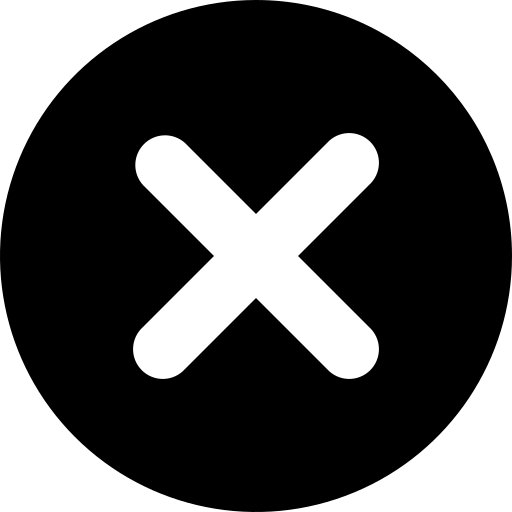
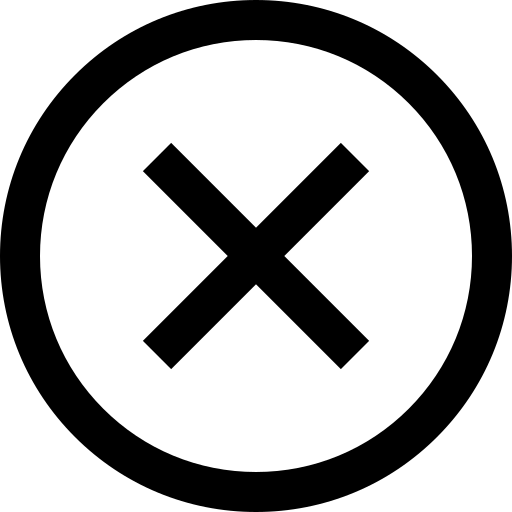
new close button

diff --git a/View/MainWindow.cpp b/View/MainWindow.cpp
@@ -17,11 +17,15 @@ MainWindow::MainWindow(SensorContainer& sensorList) : sensorList(sensorList){
     QAction* save = new QAction(QIcon(QPixmap(("assets/diskette.png"))), "Salva");
     toolBar->addSeparator();
     toolBar->addAction(save);
+    QAction* close = new QAction(QIcon(QPixmap(("assets/close.png"))), "Chiudi");
+    toolBar->addSeparator();
+    toolBar->addAction(close);
     toolBar->setFixedHeight(30);
     toolBar->setMovable(false);
     this->addToolBar(toolBar);
     connect(open, &QAction::triggered, this, &MainWindow::open);
     connect(save, &QAction::triggered, this, &MainWindow::save);
+    connect(close, &QAction::triggered, this, &MainWindow::closeApp);
     application = new ApplicationPanel(sensorList);
     setCentralWidget(application);
 }
@@ -48,6 +52,11 @@ void MainWindow::save(void){
         file.save(sensorList.getSensorsList());
         //statusBar()->showMessage("Salvato");
     }
+}
+
+void MainWindow::closeApp(void){
+    sensorList.clearAllItems();
+    this->close();
 }
 
 }

diff --git a/View/MainWindow.h b/View/MainWindow.h
@@ -19,6 +19,7 @@ public:
 public slots:
     void open(void);
     void save(void);
+    void closeApp(void);
 };
 
 }
